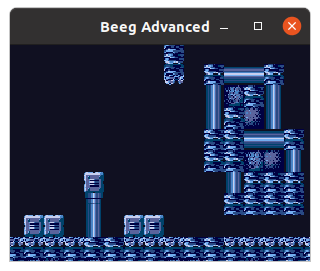
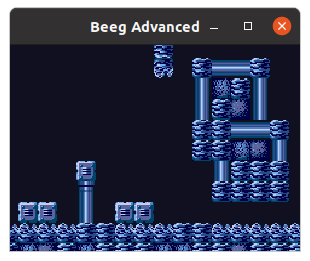
Added SWIs in THUMB mode. Cleared up DP instructions a bit.

Changed region(s): [[0.029, 0.0307, 0.9871, 0.9808], [0.0581, 0.0, 0.9581, 0.0307], [0.7839, 0.0613, 0.8419, 0.1226]]

diff --git a/src/ARM/arm_dataProcessing.rs b/src/ARM/arm_dataProcessing.rs
@@ -22,26 +22,11 @@ impl CPU {
         let operand2 = self.ROR(imm, rot_imm * 2, affectFlags);
         let opcode = (instruction >> 21) & 0xF;
 
-        debug_assert!(!(s && rdIndex == 15));
-
-        match opcode {
-            0   => self.ARM_AND(rdIndex, operand1, operand2, affectFlags, bus),
-            1   => self.ARM_EOR(rdIndex, operand1, operand2, affectFlags, bus),
-            2   => self.ARM_SUB(rdIndex, operand1, operand2, affectFlags, bus),
-            3   => todo!("[ARM] Implement RSB\n"),
-            4   => self.ARM_ADD(rdIndex, operand1, operand2, affectFlags, bus),
-            5   => self.ARM_ADC(rdIndex, operand1, operand2, affectFlags, oldCarry, bus),
-            6   => self.ARM_SBC(rdIndex, operand1, operand2, affectFlags, oldCarry, bus),
-            7   => self.ARM_SBC(rdIndex, operand2, operand1, affectFlags, oldCarry, bus),
-            8   => self._TST(operand1, operand2),
-            9   => self._TEQ(operand1, operand2),
-            10  => self._CMP(operand1, operand2),
-            11  => self._CMP(operand1, !operand2),
-            12  => self.ARM_ORR(rdIndex, operand1, operand2, affectFlags, bus),
-            13  => self.ARM_MOV(rdIndex, operand2, affectFlags, bus),
-            14  => self.ARM_BIC(rdIndex, operand1, operand2, affectFlags, bus),
-             _  => self.ARM_MVN(rdIndex, operand2, affectFlags, bus)
+        if s && rdIndex == 15 {
+            self.setCPSR(self.spsr.getRaw())
         }
+
+        self.executeDP(opcode, rdIndex, operand1, operand2, affectFlags, oldCarry, bus)
     }
 
     pub fn ARM_handleDataProcessingRegister (&mut self, bus: &mut Bus, instruction: u32) {
@@ -65,6 +50,10 @@ impl CPU {
 
         self.gprs[15] -= 4; // Undo what we did in the first line
 
+        if s && rdIndex == 15 {
+            self.setCPSR(self.spsr.getRaw())
+        }
+
         match shift {
             0 => rm = self.LSL(rm, shiftAmount, affectFlags),
             1 => rm = self.LSR(rm, shiftAmount, affectFlags),
@@ -72,24 +61,7 @@ impl CPU {
             _ => rm = self.ROR(rm, shiftAmount, affectFlags)
         }
 
-        match opcode {
-            0   => self.ARM_AND(rdIndex, rn, rm, affectFlags, bus),
-            1   => self.ARM_EOR(rdIndex, rn, rm, affectFlags, bus),
-            2   => self.ARM_SUB(rdIndex, rn, rm, affectFlags, bus),
-            3   => todo!("[ARM] Implement RSB\n"),
-            4   => self.ARM_ADD(rdIndex, rn, rm, affectFlags, bus),
-            5   => self.ARM_ADC(rdIndex, rn, rm, affectFlags, oldCarry, bus),
-            6   => self.ARM_SBC(rdIndex, rn, rm, affectFlags, oldCarry, bus),
-            7   => self.ARM_SBC(rdIndex, rm, rn, affectFlags, oldCarry, bus),
-            8   => self._TST(rn, rm),
-            9   => self._TEQ(rn, rm),
-            10  => self._CMP(rn, rm),
-            11  => self._CMP(rn, !rm),
-            12  => self.ARM_ORR(rdIndex, rn, rm, affectFlags, bus),
-            13  => self.ARM_MOV(rdIndex, rm, affectFlags, bus),
-            14  => self.ARM_BIC(rdIndex, rn, rm, affectFlags, bus),
-             _  => self.ARM_MVN(rdIndex, rm, affectFlags, bus)
-        }
+        self.executeDP(opcode, rdIndex, rn, rm, affectFlags, oldCarry, bus)
     }
 
     pub fn ARM_handleDataProcessingImmShift (&mut self, bus: &mut Bus, instruction: u32) {
@@ -112,6 +84,10 @@ impl CPU {
             shiftImm = 32;
         }
 
+        if s && rdIndex == 15 {
+            self.setCPSR(self.spsr.getRaw())
+        }
+
         match shift {
             0 => rm = self.LSL(rm, shiftImm, affectFlags),
             1 => rm = self.LSR(rm, shiftImm, affectFlags),
@@ -127,23 +103,27 @@ impl CPU {
             }
         }
 
+        self.executeDP(opcode, rdIndex, rn, rm, affectFlags, oldCarry, bus)
+    }
+
+    pub fn executeDP (&mut self, opcode: u32, rdIndex: u32, operand1: u32, operand2: u32, affectFlags: bool, oldCarry: u32, bus: &mut Bus) {
         match opcode {
-            0   => self.ARM_AND(rdIndex, rn, rm, affectFlags, bus),
-            1   => self.ARM_EOR(rdIndex, rn, rm, affectFlags, bus),
-            2   => self.ARM_SUB(rdIndex, rn, rm, affectFlags, bus),
-            3   => todo!("[ARM] Implement RSB\n"),
-            4   => self.ARM_ADD(rdIndex, rn, rm, affectFlags, bus),
-            5   => self.ARM_ADC(rdIndex, rn, rm, affectFlags, oldCarry, bus),
-            6   => self.ARM_SBC(rdIndex, rn, rm, affectFlags, oldCarry, bus),
-            7   => self.ARM_SBC(rdIndex, rm, rn, affectFlags, oldCarry, bus),
-            8   => self._TST(rn, rm),
-            9   => self._TEQ(rn, rm),
-            10  => self._CMP(rn, rm),
-            11  => self._CMP(rn, !rm),
-            12  => self.ARM_ORR(rdIndex, rn, rm, affectFlags, bus),
-            13  => self.ARM_MOV(rdIndex, rm, affectFlags, bus),
-            14  => self.ARM_BIC(rdIndex, rn, rm, affectFlags, bus),
-             _  => self.ARM_MVN(rdIndex, rm, affectFlags, bus)
+            0   => self.ARM_AND(rdIndex, operand1, operand2, affectFlags, bus),
+            1   => self.ARM_EOR(rdIndex, operand1, operand2, affectFlags, bus),
+            2   => self.ARM_SUB(rdIndex, operand1, operand2, affectFlags, bus),
+            3   => self.ARM_SUB(rdIndex, operand2, operand1, affectFlags, bus),
+            4   => self.ARM_ADD(rdIndex, operand1, operand2, affectFlags, bus),
+            5   => self.ARM_ADC(rdIndex, operand1, operand2, affectFlags, oldCarry, bus),
+            6   => self.ARM_SBC(rdIndex, operand1, operand2, affectFlags, oldCarry, bus),
+            7   => self.ARM_SBC(rdIndex, operand2, operand1, affectFlags, oldCarry, bus),
+            8   => self._TST(operand1, operand2),
+            9   => self._TEQ(operand1, operand2),
+            10  => self._CMP(operand1, operand2),
+            11  => self._CMP(operand1, !operand2),
+            12  => self.ARM_ORR(rdIndex, operand1, operand2, affectFlags, bus),
+            13  => self.ARM_MOV(rdIndex, operand2, affectFlags, bus),
+            14  => self.ARM_BIC(rdIndex, operand1, operand2, affectFlags, bus),
+             _  => self.ARM_MVN(rdIndex, operand2, affectFlags, bus)
         }
     }
     

diff --git a/src/Thumb/thumb_branches.rs b/src/Thumb/thumb_branches.rs
@@ -50,6 +50,14 @@ impl CPU {
     }
 
     pub fn Thumb_handleSWI (&mut self, bus: &mut Bus, instruction: u32) {
-        todo!("[THUMB] SWI!\n")
+        let lr = self.gprs[15] - 2;
+        let cpsr = self.cpsr.getRaw();
+        self.changeMode(0x13); // switch to SVC mode
+        self.gprs[14] = lr;
+        self.cpsr.setThumbState(0); // Switch to ARM mode, disable interrupts
+        self.cpsr.setIRQDisable(1);
+
+        self.setGPR(15, 0x8, bus); // jump to BIOS SWI handler
+        self.spsr.setRaw(cpsr) // Set SPSR to previous CPSR (needed to return from the SWI)
     }
 }

diff --git a/src/cpu.rs b/src/cpu.rs
@@ -169,12 +169,12 @@ impl CPU {
 
     pub fn cpuModeToArrayIndex(mode: u32) -> usize {
         match mode {
-            0x10 | 0x1F => 0,
-            0x11 => 1,
-            0x12 => 2,
-            0x13 => 3,
-            0x17 => 4,
-            0x1B => 5,
+            0x10 | 0x1F => 0, // User/System
+            0x11 => 1, // FIQ
+            0x12 => 2, // IRQ
+            0x13 => 3, // SVC
+            0x17 => 4, // ABT
+            0x1B => 5, // UND
             _ => panic!("Invalid CPU mode!\n")
         }
     }

diff --git a/src/main.rs b/src/main.rs
@@ -20,7 +20,7 @@ use sfml::graphics::*;
 use sfml::window::*; // TODO: Not import the entire thing
 
 fn main() {
-    let mut gba = GBA::new("ROMs/hello.gba".to_string());
+    let mut gba = GBA::new("ROMs/brin_demo.gba".to_string());
     gba.init();
 
     let mut window = RenderWindow::new(VideoMode::new(240, 160, 32),

diff --git a/src/ARM/arm_loadStoreMultiple.rs b/src/ARM/arm_loadStoreMultiple.rs
@@ -14,6 +14,7 @@ impl CPU {
 
         if switchToUser {
             if isBitSet!(instruction, 15) {
+                todo!("LDM that loads r15 with S mode bit set, might be wrong!");
                 self.setCPSR(self.spsr.getRaw());   
             }
 

diff --git a/src/PPU/ppu.rs b/src/PPU/ppu.rs
@@ -1,6 +1,5 @@
-use crate::PPU::*;
 use crate::io::{BGCNT, DISPSTAT, DISPCNT, BGOFS};
-use crate::helpers::get8BitColor;
+use crate::bus::Bus;
 
 const RENDERING_MODE_CYCLES: u32 = 960;
 const HBLANK_MODE_CYCLES: u32 = 272;
